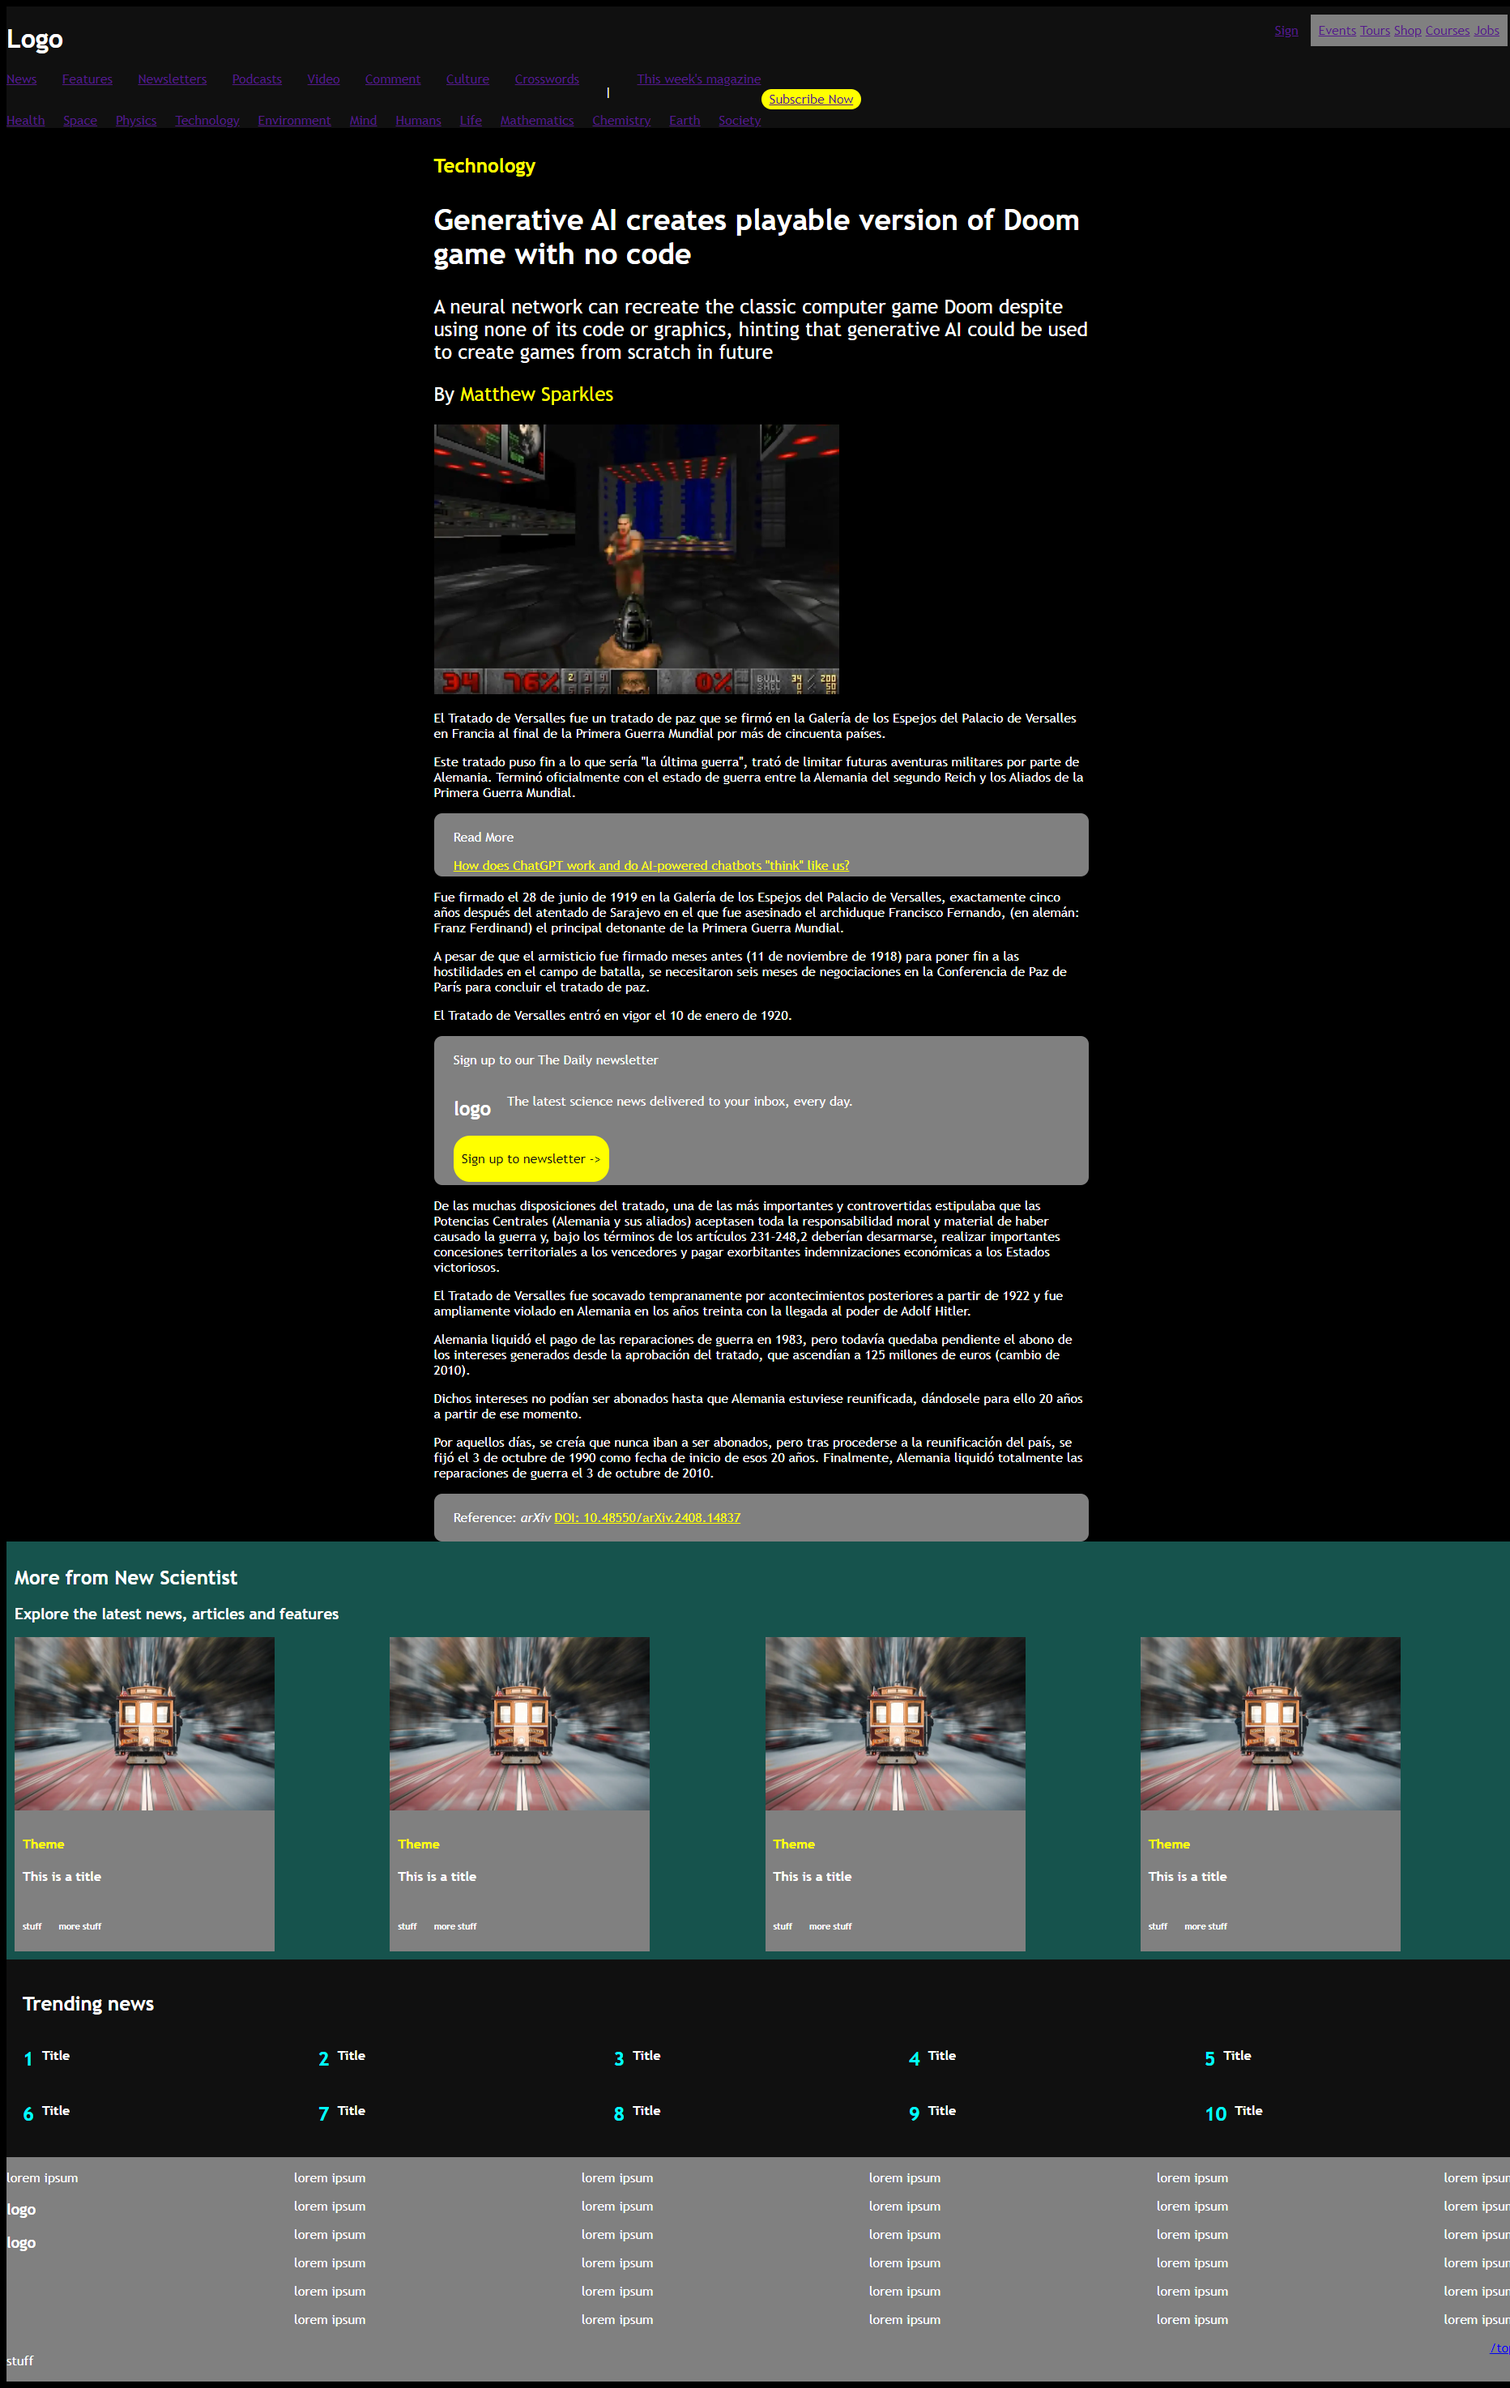
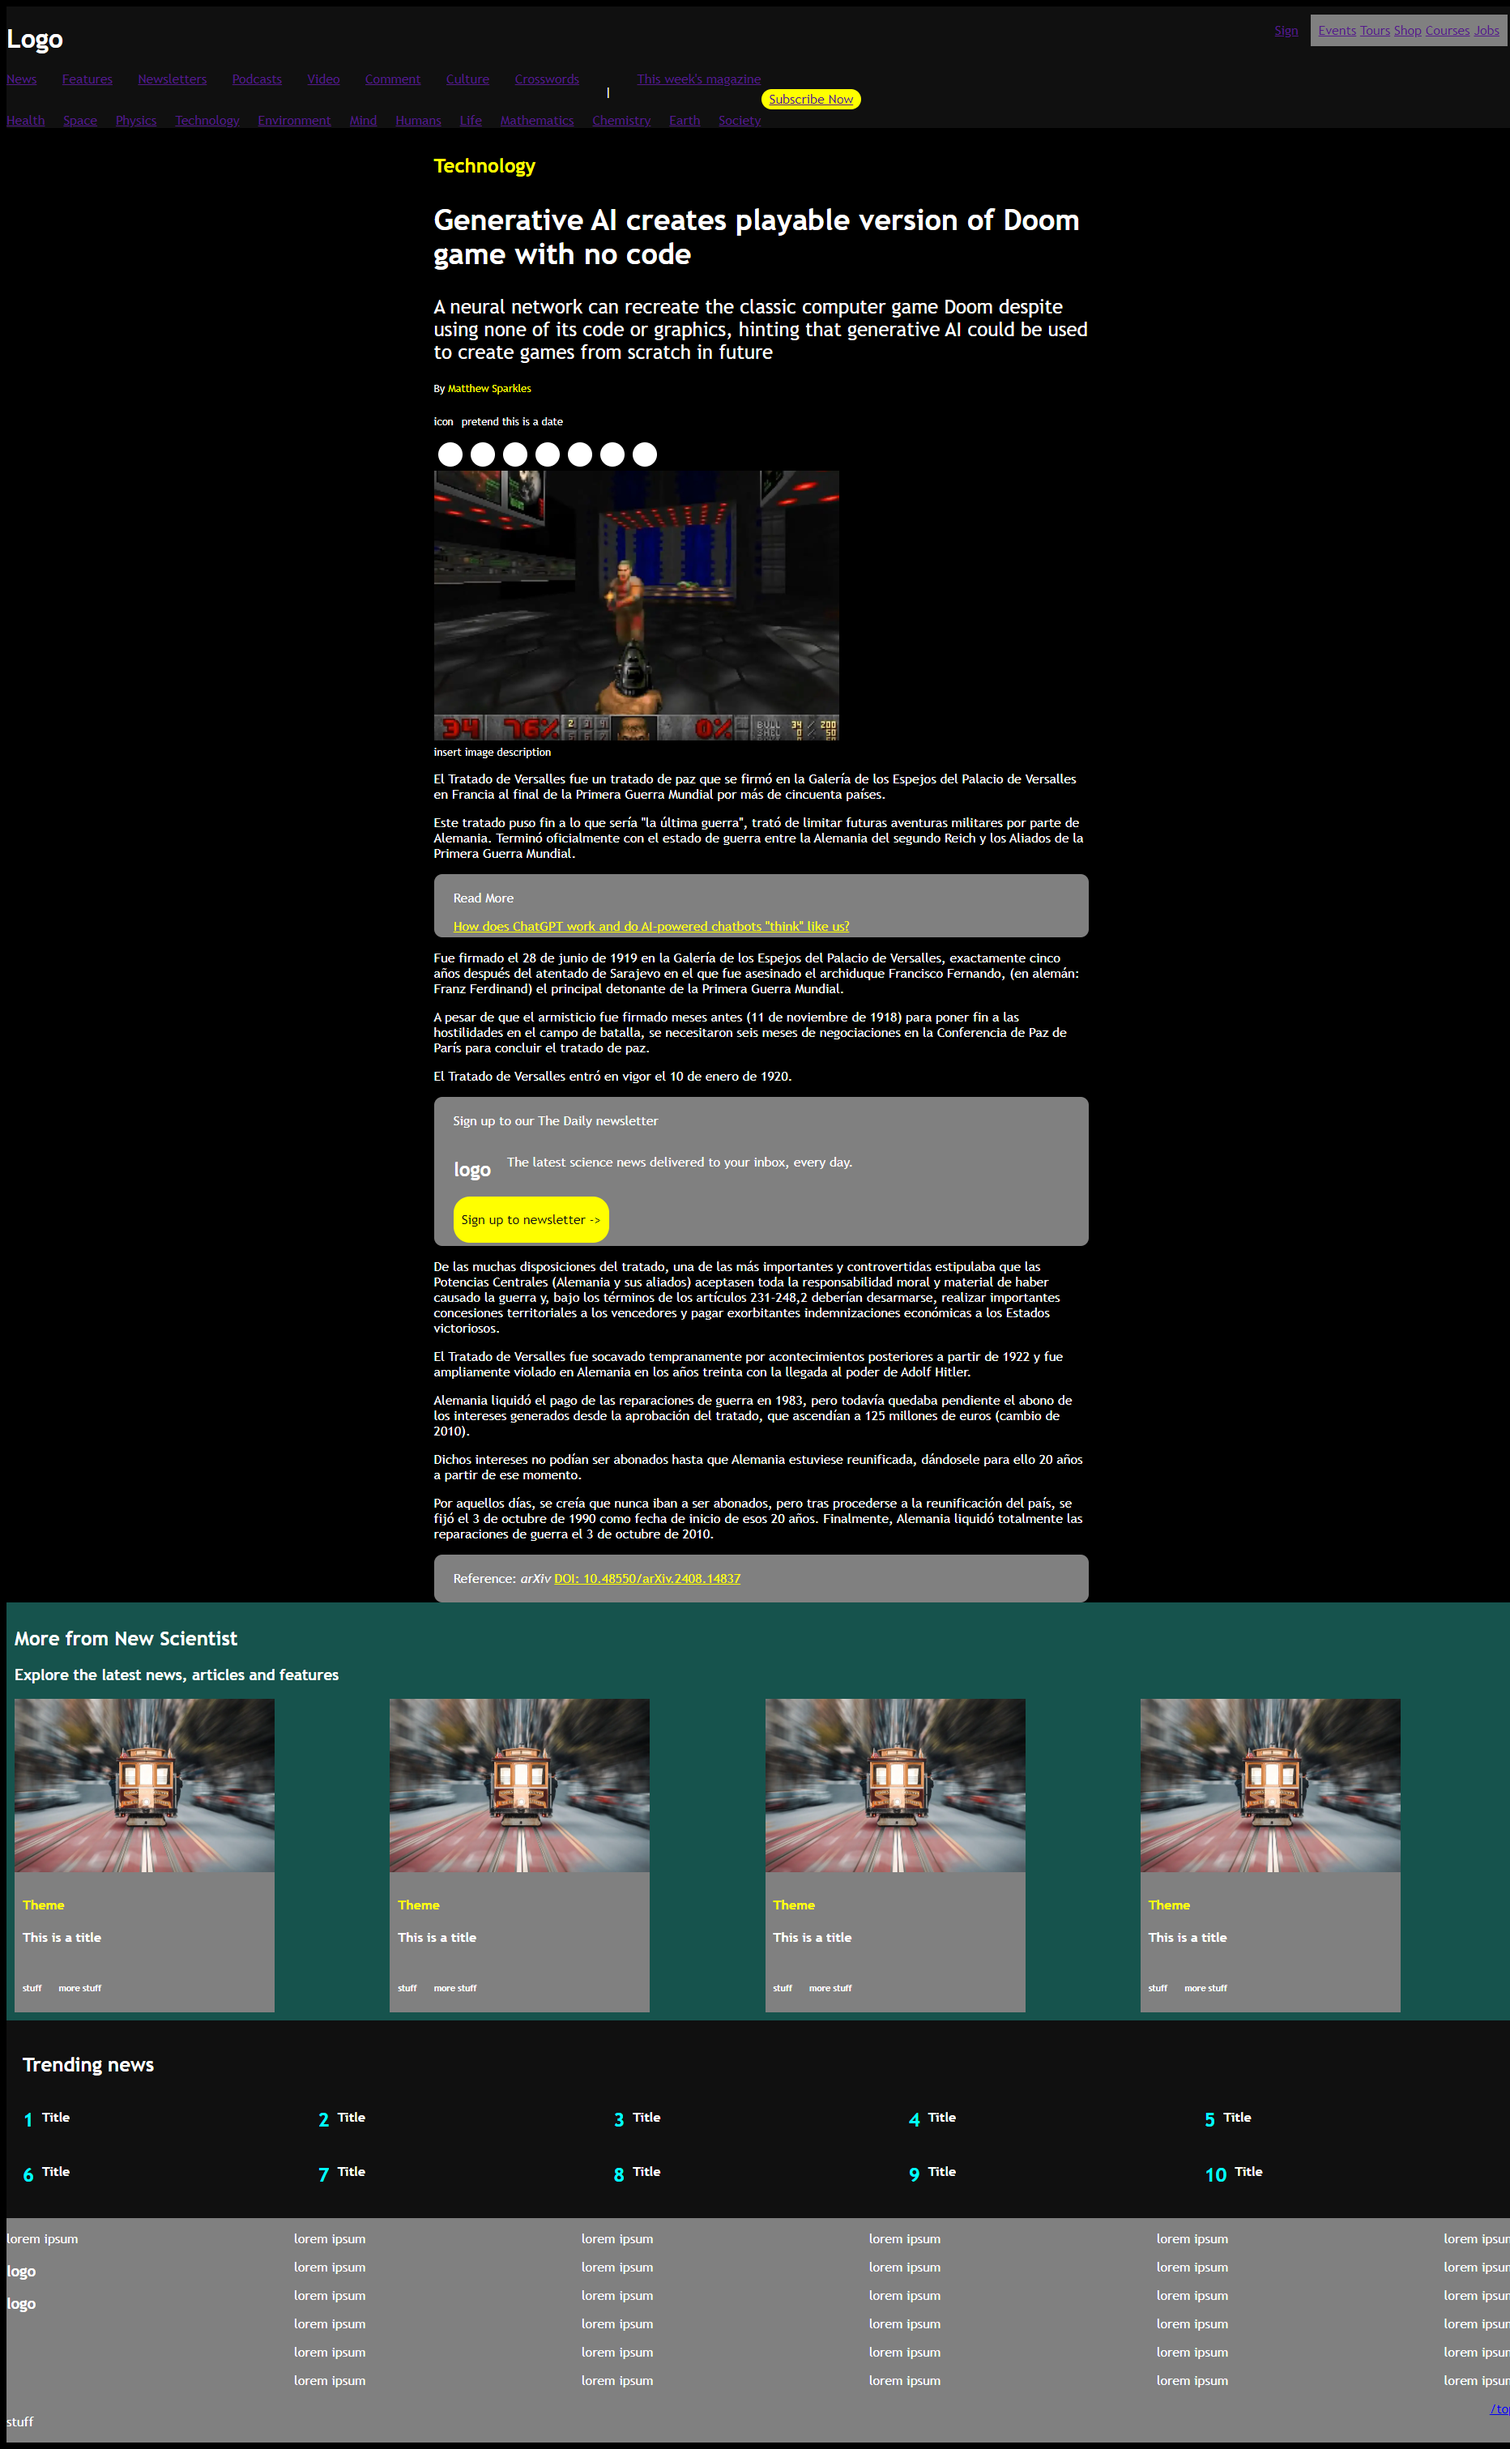
docs: add missing elements to html structure
Agregados elementos faltantes a la entrega.

diff --git a/tarea.html b/tarea.html
@@ -106,6 +106,27 @@
             flex: 1 0 0;
             align-self: stretch;
         }
+        .smol-stuff{
+            font-size: small;
+        }
+        .date{
+            display: flex;
+            gap: 10px;
+        }
+        .social-balls-container{
+            display: flex;
+            gap: 10px;
+            padding: 5px;
+        }
+        .social-ball{
+            min-width: 30px;
+            min-height: 30px;
+            background-color: white;
+            border-radius: 100%;
+        }
+        .doom{
+            font-size: smaller;
+        }
         
     </style>
     <meta charset="UTF-8">
@@ -168,10 +189,31 @@
             <h4 style="color: yellow;">Technology</h4>
             <h1>Generative AI creates playable version of Doom game with no code</h1>
             <p>A neural network can recreate the classic computer game Doom despite using none of its code or graphics, hinting that generative AI could be used to create games from scratch in future</p>
-            <p>By <a style="color: yellow;"> Matthew Sparkles</a></p>
+            <div class="smol-stuff">
+                <p>By <a style="color: yellow;"> Matthew Sparkles</a></p>
+                <div class="date">
+                    <p>icon</p>
+                    <p>pretend this is a date</p>
+                </div>
+                <div class="social-balls-container">
+                    <div class="social-ball"></div>
+                    <div class="social-ball"></div>
+                    <div class="social-ball"></div>
+                    <div class="social-ball"></div>
+                    <div class="social-ball"></div>
+                    <div class="social-ball"></div>
+                    <div class="social-ball"></div>
+                </div>
+                
+            </div>
+            
         </section>
         <section class="body">
-            <img src="https://images.newscientist.com/wp-content/uploads/2024/08/30153927/SEI_219268252.jpg" width="85%" style="max-width: 500px;">
+            <div class="doom">
+                <img src="https://images.newscientist.com/wp-content/uploads/2024/08/30153927/SEI_219268252.jpg" width="85%" style="max-width: 500px; margin-bottom: -10px;">
+                <p>insert image description</p>
+            </div>
+            
             <div class="paragraph-container">
                 <p>El Tratado de Versalles fue un tratado de 
                     paz que se firmó en la Galería de los Espejos 
